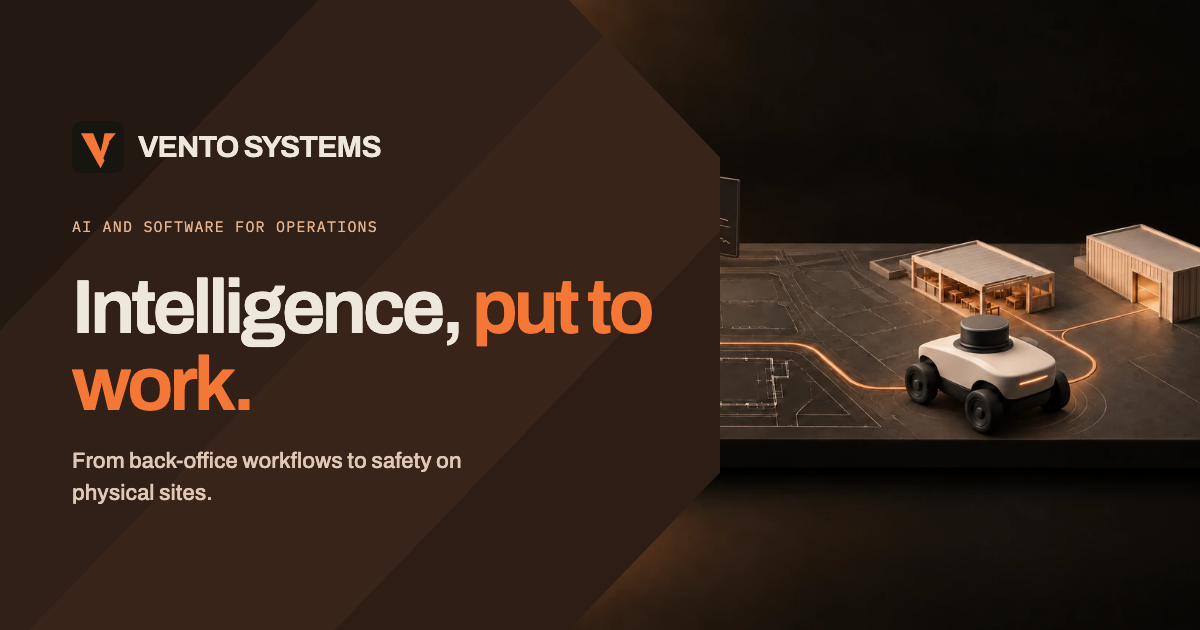
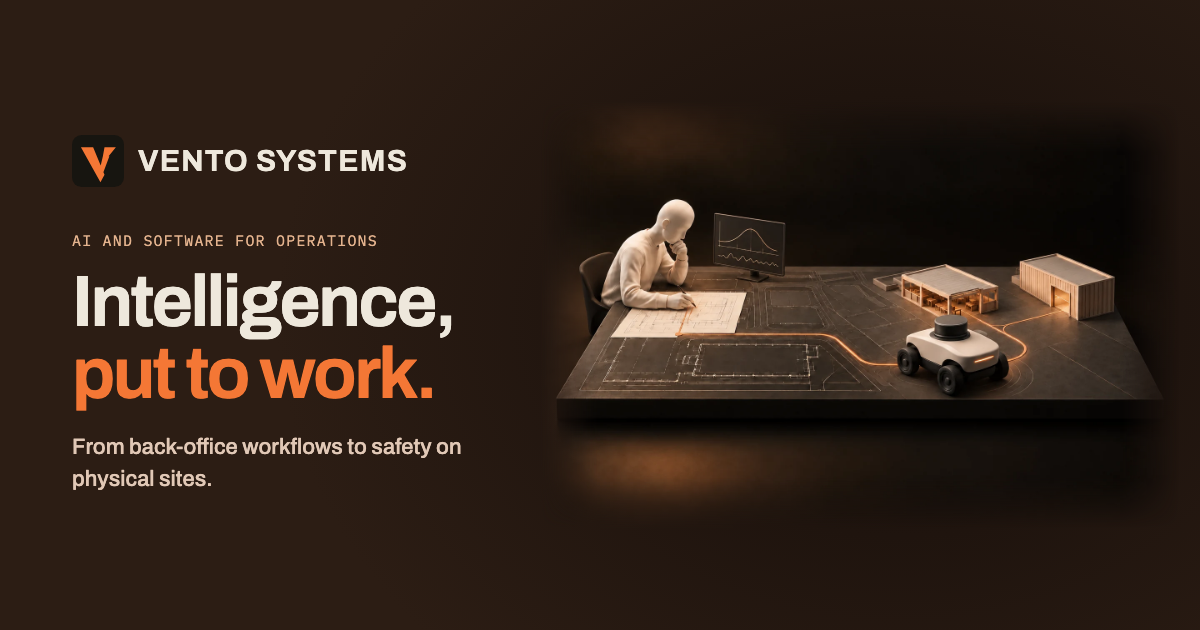
Home headline on two deliberate lines
'Intelligence,' then 'put to work.' in orange, never split mid-phrase, a
little larger on wide screens and scaled down on phones. Share image updated
to match.

diff --git a/index.html b/index.html
@@ -14,7 +14,7 @@
 <link rel="preconnect" href="https://fonts.gstatic.com" crossorigin>
 <link rel="stylesheet" href="https://fonts.googleapis.com/css2?family=Archivo:wght@400;450;500;550;600;650;700&amp;family=IBM+Plex+Mono:wght@400;500&amp;display=swap">
 <link rel="stylesheet" href="/assets/company.css?v=20261022">
-<link rel="stylesheet" href="/preview.css?v=20261113s">
+<link rel="stylesheet" href="/preview.css?v=20261114b">
 <script type="application/ld+json">{"@context": "https://schema.org", "@type": "Organization", "name": "Vento Systems", "url": "https://ventosystems.com/", "logo": "https://ventosystems.com/assets/apple-touch-icon.png", "email": "hello@ventosystems.com", "description": "Vento Systems builds AI and software for business operations and physical sites."}</script>
 </head>
 <body class="site-layout">
@@ -41,7 +41,7 @@
       <div class="shell">
         <div class="reference-home-copy">
           <p class="eyebrow">AI and software for operations</p>
-          <h1 id="hero-title">Intelligence, <em>put to work.</em></h1>
+          <h1 id="hero-title"><span class="h1-line">Intelligence,</span> <em class="h1-line">put to work.</em></h1>
           <p class="hero-lead">We build AI and software for business operations and physical sites. Every system shows the evidence behind its suggestions, so your people can check it.</p>
           <div class="hero-actions">
             <a class="button" href="/contact/?topic=general">Start a project <span class="arr" aria-hidden="true"><svg class="ico" viewBox="0 0 16 16" focusable="false"><path d="M3 8h10M9 4l4 4-4 4"/></svg></span></a>

diff --git a/preview.css b/preview.css
@@ -666,3 +666,10 @@ a[href^="#"] .arr,a[href^="#"]:hover .arr{transform:none}
 .product-tile .shot-frame img{aspect-ratio:16/10;object-fit:cover;object-position:top left}
 .sample-video{display:block;width:100%;height:auto;aspect-ratio:16/9;background:#111}
 .service-card .art-figure img{aspect-ratio:3/2;object-fit:cover}
+
+/* Home headline: two deliberate lines, never split mid-phrase */
+.company-hero-new .reference-home-copy h1{max-width:none;font-size:clamp(46px,5.6vw,86px);line-height:1;letter-spacing:-.035em}
+.company-hero-new .reference-home-copy h1 .h1-line{display:block;white-space:nowrap}
+@media(max-width:700px){.company-hero-new .reference-home-copy h1{font-size:clamp(36px,11vw,52px)}}
+.company-hero-new .reference-home-copy h1{font-size:clamp(48px,6.2vw,96px)}
+@media(max-width:700px){.company-hero-new .reference-home-copy h1{font-size:clamp(36px,11vw,52px)}}

diff --git a/india/index.html b/india/index.html
@@ -14,7 +14,7 @@
 <link rel="preconnect" href="https://fonts.gstatic.com" crossorigin>
 <link rel="stylesheet" href="https://fonts.googleapis.com/css2?family=Archivo:wght@400;450;500;550;600;650;700&amp;family=IBM+Plex+Mono:wght@400;500&amp;display=swap">
 <link rel="stylesheet" href="/assets/company.css?v=20261022">
-<link rel="stylesheet" href="/preview.css?v=20261113s">
+<link rel="stylesheet" href="/preview.css?v=20261114b">
 </head>
 <body class="site-layout reference-home">
 

diff --git a/india/capabilities/index.html b/india/capabilities/index.html
@@ -14,7 +14,7 @@
 <link rel="preconnect" href="https://fonts.gstatic.com" crossorigin>
 <link rel="stylesheet" href="https://fonts.googleapis.com/css2?family=Archivo:wght@400;450;500;550;600;650;700&amp;family=IBM+Plex+Mono:wght@400;500&amp;display=swap">
 <link rel="stylesheet" href="/assets/company.css?v=20261022">
-<link rel="stylesheet" href="/preview.css?v=20261113s">
+<link rel="stylesheet" href="/preview.css?v=20261114b">
 </head>
 <body class="site-layout">
   

diff --git a/404.html b/404.html
@@ -13,7 +13,7 @@
 <link rel="preconnect" href="https://fonts.gstatic.com" crossorigin>
 <link rel="stylesheet" href="https://fonts.googleapis.com/css2?family=Archivo:wght@400;450;500;550;600;650;700&amp;family=IBM+Plex+Mono:wght@400;500&amp;display=swap">
 <link rel="stylesheet" href="/assets/company.css?v=20261022">
-<link rel="stylesheet" href="/preview.css?v=20261113s">
+<link rel="stylesheet" href="/preview.css?v=20261114b">
 </head>
 <body class="site-layout">
 

diff --git a/about/index.html b/about/index.html
@@ -14,7 +14,7 @@
 <link rel="preconnect" href="https://fonts.gstatic.com" crossorigin>
 <link rel="stylesheet" href="https://fonts.googleapis.com/css2?family=Archivo:wght@400;450;500;550;600;650;700&amp;family=IBM+Plex+Mono:wght@400;500&amp;display=swap">
 <link rel="stylesheet" href="/assets/company.css?v=20261022">
-<link rel="stylesheet" href="/preview.css?v=20261113s">
+<link rel="stylesheet" href="/preview.css?v=20261114b">
 </head>
 <body class="site-layout">
 

diff --git a/ap-automation/index.html b/ap-automation/index.html
@@ -14,7 +14,7 @@
 <link rel="preconnect" href="https://fonts.gstatic.com" crossorigin>
 <link rel="stylesheet" href="https://fonts.googleapis.com/css2?family=Archivo:wght@400;450;500;550;600;650;700&amp;family=IBM+Plex+Mono:wght@400;500&amp;display=swap">
 <link rel="stylesheet" href="/assets/company.css?v=20261022">
-<link rel="stylesheet" href="/preview.css?v=20261113s">
+<link rel="stylesheet" href="/preview.css?v=20261114b">
 </head>
 <body class="site-layout">
 

diff --git a/autonomy/index.html b/autonomy/index.html
@@ -14,7 +14,7 @@
 <link rel="preconnect" href="https://fonts.gstatic.com" crossorigin>
 <link rel="stylesheet" href="https://fonts.googleapis.com/css2?family=Archivo:wght@400;450;500;550;600;650;700&amp;family=IBM+Plex+Mono:wght@400;500&amp;display=swap">
 <link rel="stylesheet" href="/assets/company.css?v=20261022">
-<link rel="stylesheet" href="/preview.css?v=20261113s">
+<link rel="stylesheet" href="/preview.css?v=20261114b">
 </head>
 <body class="site-layout">
 

diff --git a/branchglass/index.html b/branchglass/index.html
@@ -14,7 +14,7 @@
 <link rel="preconnect" href="https://fonts.gstatic.com" crossorigin>
 <link rel="stylesheet" href="https://fonts.googleapis.com/css2?family=Archivo:wght@400;450;500;550;600;650;700&amp;family=IBM+Plex+Mono:wght@400;500&amp;display=swap">
 <link rel="stylesheet" href="/assets/company.css?v=20261022">
-<link rel="stylesheet" href="/preview.css?v=20261113s">
+<link rel="stylesheet" href="/preview.css?v=20261114b">
 </head>
 <body class="site-layout">
 

diff --git a/business/index.html b/business/index.html
@@ -14,7 +14,7 @@
 <link rel="preconnect" href="https://fonts.gstatic.com" crossorigin>
 <link rel="stylesheet" href="https://fonts.googleapis.com/css2?family=Archivo:wght@400;450;500;550;600;650;700&amp;family=IBM+Plex+Mono:wght@400;500&amp;display=swap">
 <link rel="stylesheet" href="/assets/company.css?v=20261022">
-<link rel="stylesheet" href="/preview.css?v=20261113s">
+<link rel="stylesheet" href="/preview.css?v=20261114b">
 </head>
 <body class="site-layout">
 

diff --git a/contact/index.html b/contact/index.html
@@ -14,7 +14,7 @@
 <link rel="preconnect" href="https://fonts.gstatic.com" crossorigin>
 <link rel="stylesheet" href="https://fonts.googleapis.com/css2?family=Archivo:wght@400;450;500;550;600;650;700&amp;family=IBM+Plex+Mono:wght@400;500&amp;display=swap">
 <link rel="stylesheet" href="/assets/company.css?v=20261022">
-<link rel="stylesheet" href="/preview.css?v=20261113s">
+<link rel="stylesheet" href="/preview.css?v=20261114b">
 </head>
 <body class="site-layout">
 

diff --git a/credits/index.html b/credits/index.html
@@ -14,7 +14,7 @@
 <link rel="preconnect" href="https://fonts.gstatic.com" crossorigin>
 <link rel="stylesheet" href="https://fonts.googleapis.com/css2?family=Archivo:wght@400;450;500;550;600;650;700&amp;family=IBM+Plex+Mono:wght@400;500&amp;display=swap">
 <link rel="stylesheet" href="/assets/company.css?v=20261022">
-<link rel="stylesheet" href="/preview.css?v=20261113s">
+<link rel="stylesheet" href="/preview.css?v=20261114b">
 </head>
 <body class="site-layout">
 
